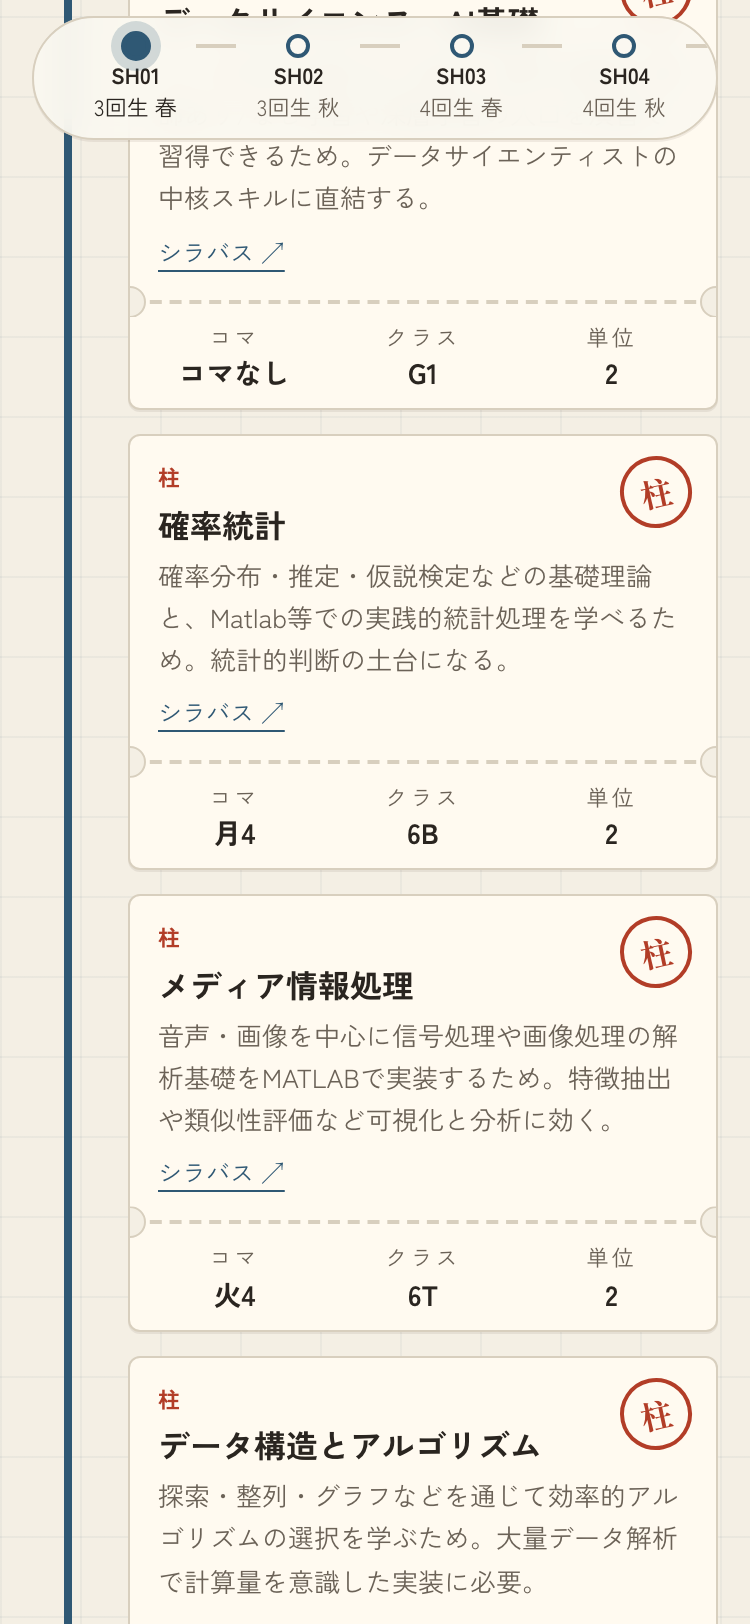
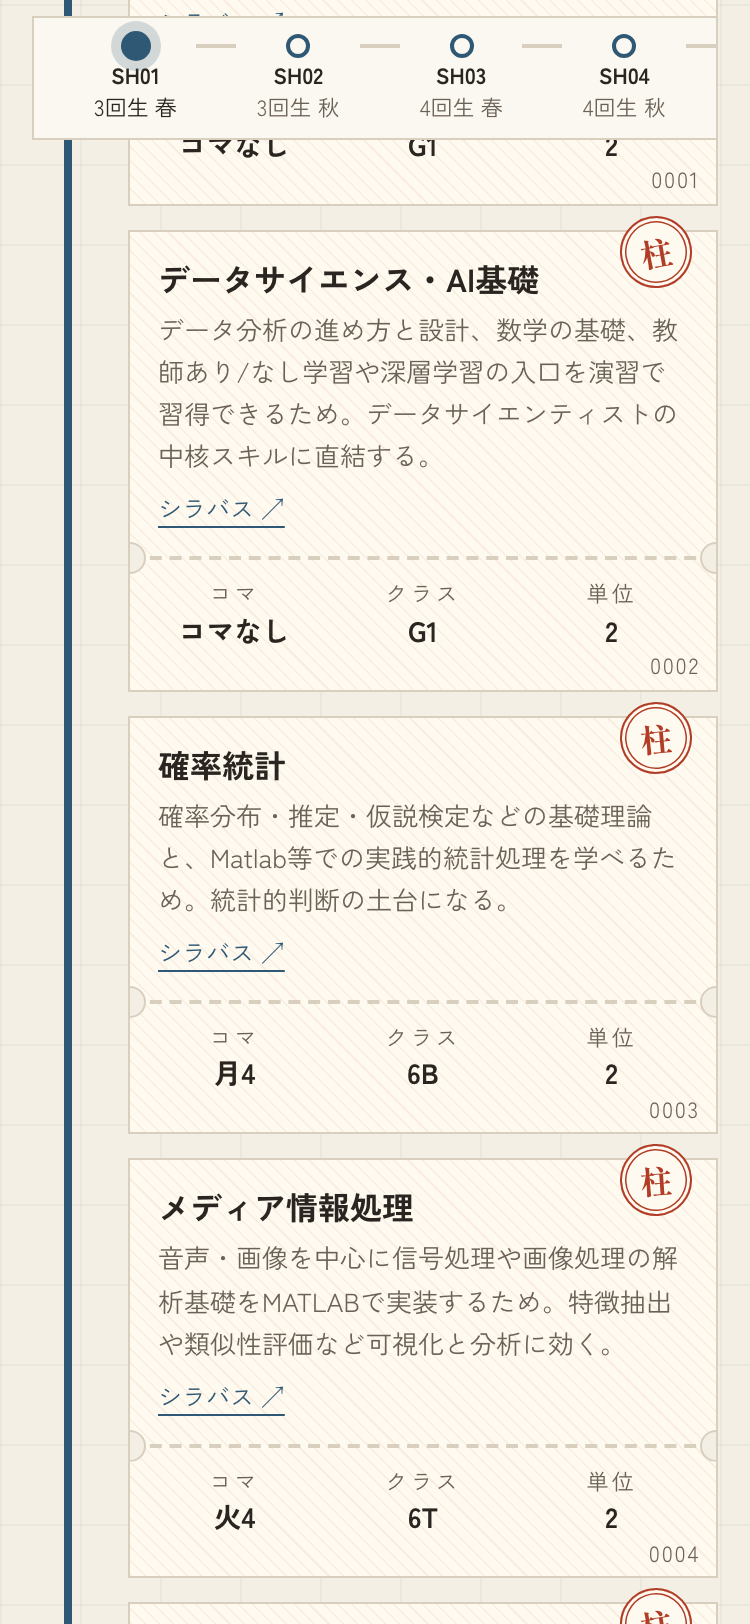
docs: README の画面の画像と動きの GIF を、器と罫・券面・動きの見た目で撮り直す
ADR 0083 と 0084 の 3 つの PR(#87 器と罫、#88 要約と券面、#89 動き)で
画面の見た目が替わり、README の画像が古い見た目(角丸の箱、紺の帯の要約、
左上の柱と礎の字、光るだけの切符)のままだった。

- 撮り方は前回と同じ。e2e の仕組み(試験用のセッション、見本の道標の決まった
  JSON)で、撮影用の一時的な設定と spec(3200 番で立て、コミットしない)から
  撮った。試験のセッションの名前は「試験の利用者」で、本物の個人の情報は
  写らない。大きさも前回と同じ(1280px の 3 枚、375px を 2 倍の解像度で 3 枚)
- demo.gif は、トップから見本の道標までスクロールし、礎の切符に触れて乗り換えの
  線が引かれるところを撮った(動きを許す設定)。幅 800、毎秒 8 コマ、80 色、
  ディザ無しで 5.2MB。切符の細い斜線の地紋で、前回(3.8MB)より圧縮が
  効きにくい。毎秒 10 コマ、96 色では 6.8MB だった
- README の代替の文と説明を、カードと「光る」から、判子の切符と乗り換えの
  線に直し、動きの 4 つと ADR 0083、0084 への導線を足した

Claude-Session: https://claude.ai/code/session_01Uv4W9cMkDQr3YL2szVJVhC

diff --git a/README.md b/README.md
@@ -15,7 +15,7 @@
 - **段ごとに測れる推薦**: 職業の読み取り → シラバスのベクトル検索 → LLM が候補から授業を選ぶ段に分け、期待する科目をどの段で落としたかまで数えます([推薦の仕組み](#推薦の仕組み))
 - **本番で動かす**: AWS EC2 と Docker Compose で公開し、1 件約 1 円、1 日の上限、前払いで費用を抑えています。バックエンドはクリーンアーキテクチャで作り、型の厳しい検査と画面の通しの試験(axe で WCAG 2.2 AA)を CI で回しています([設計](#設計)、[品質](#品質))
 
-![トップから見本の道標までスクロールし、授業のカードに触れると、つながる授業のカードが光る様子](docs/images/demo.gif)
+![トップから見本の道標までスクロールし、礎の切符に触れると、乗り換えでつながる柱の切符まで線が引かれる様子](docs/images/demo.gif)
 
 > 大学とは関係のない個人の非公式のアプリです。必修、卒業要件、履修の前提は見ていません。授業は AI が選ぶので、誤りや作るたびの違いがあります。
 
@@ -32,19 +32,19 @@
 
 ## 主な機能
 
-![結果の画面。職業の行先、出発と到着の要約、学期ごとの見出しと、授業ごとのカード(柱か礎か、選んだ理由、コマ、単位)](docs/images/result-route-1280.png)
+![結果の画面。職業の行先、発・経由・所要の要約、学期ごとの駅名標と、授業ごとの切符(柱か礎かの判子、選んだ理由、コマ、単位、通し番号)](docs/images/result-route-1280.png)
 
-結果の画面は、学期を駅、授業を切符に見立てた路線図です。切符には柱か礎かの印、選んだ理由、コマ、単位、シラバスの原ページへのリンクを載せ、礎の切符に触れると、つながる柱の切符が光ります(礎から柱への乗り換え)。
+結果の画面は、学期を駅、授業を切符に見立てた路線図です。切符には柱か礎かの判子、選んだ理由、コマ、単位、シラバスの原ページへのリンクを載せ、礎の切符に触れると、つながる柱の切符まで乗り換えの線を引きます(礎から柱への乗り換え)。動きは題材から出した 4 つ(駅名標の帯、完成の瞬間の方向幕、乗り換えの線、「もう取った」で半券が裂ける)に絞り、動きを減らす設定では止めます([ADR 0083](docs/adr/0083-ruled-refinement.md)、[0084](docs/adr/0084-route-motions.md))。
 
 | 職業と回生を入れる | 学期ごとの時間割帳 |
 |---|---|
-| ![入力の画面。なりたい職業、いまの回生、始める学期を選ぶ](docs/images/form-1280.png) | ![時間割帳。月〜金と 1〜5 限の表に授業を置き、右に授業のカードを並べる](docs/images/result-timetable-1280.png) |
+| ![入力の画面。なりたい職業、いまの回生、始める学期を選ぶ](docs/images/form-1280.png) | ![時間割帳。月〜金と 1〜5 限の表に授業を置き、右に授業の切符を並べる](docs/images/result-timetable-1280.png) |
 | 職業は自由に入れられます。学科で分かれたクラスの選択と、もう取った授業も入力の画面で扱えます | 学期ごとに、週の時間割の表で重なりなく並んでいることを確かめられます |
 
 <p>
   <img src="docs/images/progress-375.png" width="260" alt="作成中の画面。4 つの段の進みと、待ち時間と目安の板">
   <img src="docs/images/result-375-top.png" width="260" alt="スマホの幅の結果の画面の上部。職業の表示と要約">
-  <img src="docs/images/result-375-tickets.png" width="260" alt="スマホの幅の授業のカード。学期の帯が上に付いてくる">
+  <img src="docs/images/result-375-tickets.png" width="260" alt="スマホの幅の授業の切符。路線図の帯が上に付いてくる">
 </p>
 
 作成中の画面は、道標を作る 4 つの段(読み取り、検索、選び直し、配置。下の「推薦の仕組み」)の進みを路線の駅のように見せ、駅の発車案内のような板で待ち時間を出します([ADR 0031](docs/adr/0031-route-design.md)、[0079](docs/adr/0079-progress-board.md))。スマホの幅でも読めて、明るい見た目と暗い見た目を切り替えられます。キーボードだけで操作でき、作成の段と完成を読み上げの枠で伝え、WCAG 2.2 の AA を目安にしています([ADR 0056](docs/adr/0056-accessibility.md))。
